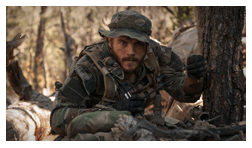
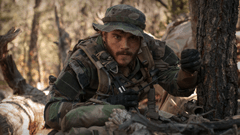
added missing frame and disabled animated gif on ipad

diff --git a/assets/css/home.less b/assets/css/home.less
@@ -180,9 +180,14 @@ div.tribute.section {
     position: absolute;
     width: 978px;
     overflow: hidden;
-}
-.quote-bot .container img {
-    position: absolute;
+
+    .quote-bot-img-wrapper {
+        position: absolute;
+        background-image: url(/assets/img/home/quote-large-frame.png);
+        padding: 6px;
+        width: 240px;
+        height: 136px;
+    }
 }
 
 /* ==========================================================================
@@ -244,7 +249,7 @@ div.tribute.section {
     top: 0px;
     left: 0px;
 }
-.marcus .quote-bot-img {
+.marcus .quote-bot-img-wrapper {
     top: 115px;
     left: 181px;
 }
@@ -303,7 +308,7 @@ div.tribute.section {
     top: 0px;
     left: 0px;
 }
-.mikey .quote-bot-img {
+.mikey .quote-bot-img-wrapper {
     top: 86px;
     left: 229px;
 }
@@ -362,7 +367,7 @@ div.tribute.section {
     top: 0px;
     left: 0px;
 }
-.axe .quote-bot-img {
+.axe .quote-bot-img-wrapper {
     top: 106px;
     left: 197px;
 }
@@ -421,7 +426,7 @@ div.tribute.section {
     top: 0px;
     left: 0px;
 }
-.dietz .quote-bot-img {
+.dietz .quote-bot-img-wrapper {
     top: 89px;
     left: 355px;
 }

diff --git a/assets/css/home.css b/assets/css/home.css
@@ -177,8 +177,12 @@ div.tribute.section {
   width: 978px;
   overflow: hidden;
 }
-.quote-bot .container img {
+.quote-bot .quote-bot-img-wrapper {
   position: absolute;
+  background-image: url(/assets/img/home/quote-large-frame.png);
+  padding: 6px;
+  width: 240px;
+  height: 136px;
 }
 .marcus.fore {
   top: 1360px;
@@ -231,7 +235,7 @@ div.tribute.section {
   top: 0px;
   left: 0px;
 }
-.marcus .quote-bot-img {
+.marcus .quote-bot-img-wrapper {
   top: 115px;
   left: 181px;
 }
@@ -283,7 +287,7 @@ div.tribute.section {
   top: 0px;
   left: 0px;
 }
-.mikey .quote-bot-img {
+.mikey .quote-bot-img-wrapper {
   top: 86px;
   left: 229px;
 }
@@ -335,7 +339,7 @@ div.tribute.section {
   top: 0px;
   left: 0px;
 }
-.axe .quote-bot-img {
+.axe .quote-bot-img-wrapper {
   top: 106px;
   left: 197px;
 }
@@ -387,7 +391,7 @@ div.tribute.section {
   top: 0px;
   left: 0px;
 }
-.dietz .quote-bot-img {
+.dietz .quote-bot-img-wrapper {
   top: 89px;
   left: 355px;
 }

diff --git a/assets/js/main.js b/assets/js/main.js
@@ -47,7 +47,10 @@
 			//Add source to deferred images to get them downloaded by browser
 			//We do this to avoid the browser from delaying preloader because of loading imgs already at dom
 			$("img").each(function(){
-				var src=$(this).data("source")
+				var src=$(this).data("source");
+				if (window.isiPad && src.indexOf("/anim.gif") != -1) {
+					src = src.replace("/anim.gif", "/quote-large-img.png")
+				}
 				if (src!=""){
 					$(this).attr("src",src);
 				}

diff --git a/application/views/main.php b/application/views/main.php
@@ -118,7 +118,9 @@
                     <div class="quote-bot">
                         <div class="container">
                             <img onload="$(this).data('loaded', 'loaded');" onerror="$(this).data('loaded', 'loaded');" class="quote-bot-text-img" data-source="assets/img/home/marcus/quote-large-text-img.png" />
-                            <img onload="$(this).data('loaded', 'loaded');" onerror="$(this).data('loaded', 'loaded');" class="quote-bot-img" data-source="assets/img/home/marcus/anim.gif" />
+                            <div class="quote-bot-img-wrapper">
+                                <img onload="$(this).data('loaded', 'loaded');" onerror="$(this).data('loaded', 'loaded');" class="quote-bot-img" data-source="assets/img/home/marcus/anim.gif" />
+                            </div>
                         </div>
                     </div>
                 </div>
@@ -150,7 +152,9 @@
                     <div class="quote-bot">
                         <div class="container">
                             <img onload="$(this).data('loaded', 'loaded');" onerror="$(this).data('loaded', 'loaded');" class="quote-bot-text-img" data-source="assets/img/home/mikey/quote-large-text-img.png" />
-                            <img onload="$(this).data('loaded', 'loaded');" onerror="$(this).data('loaded', 'loaded');" class="quote-bot-img" data-source="assets/img/home/mikey/anim.gif" />
+                            <div class="quote-bot-img-wrapper">
+                                <img onload="$(this).data('loaded', 'loaded');" onerror="$(this).data('loaded', 'loaded');" class="quote-bot-img" data-source="assets/img/home/mikey/anim.gif" />
+                            </div>
                         </div>
                     </div>
                 </div>
@@ -182,7 +186,9 @@
                     <div class="quote-bot">
                         <div class="container">
                             <img onload="$(this).data('loaded', 'loaded');" onerror="$(this).data('loaded', 'loaded');" class="quote-bot-text-img" data-source="assets/img/home/axe/quote-large-text-img.png" />
-                            <img onload="$(this).data('loaded', 'loaded');" onerror="$(this).data('loaded', 'loaded');" class="quote-bot-img" data-source="assets/img/home/axe/anim.gif" />
+                            <div class="quote-bot-img-wrapper">
+                                <img onload="$(this).data('loaded', 'loaded');" onerror="$(this).data('loaded', 'loaded');" class="quote-bot-img" data-source="assets/img/home/axe/anim.gif" />
+                            </div>
                         </div>
                     </div>
                 </div>
@@ -214,7 +220,9 @@
                     <div class="quote-bot">
                         <div class="container">
                             <img onload="$(this).data('loaded', 'loaded');" onerror="$(this).data('loaded', 'loaded');" class="quote-bot-text-img" data-source="assets/img/home/dietz/quote-large-text-img.png" />
-                            <img onload="$(this).data('loaded', 'loaded');" onerror="$(this).data('loaded', 'loaded');" class="quote-bot-img" data-source="assets/img/home/dietz/anim.gif" />
+                            <div class="quote-bot-img-wrapper">
+                                <img onload="$(this).data('loaded', 'loaded');" onerror="$(this).data('loaded', 'loaded');" class="quote-bot-img" data-source="assets/img/home/dietz/anim.gif" />
+                            </div>
                         </div>
                     </div>
                 </div>
